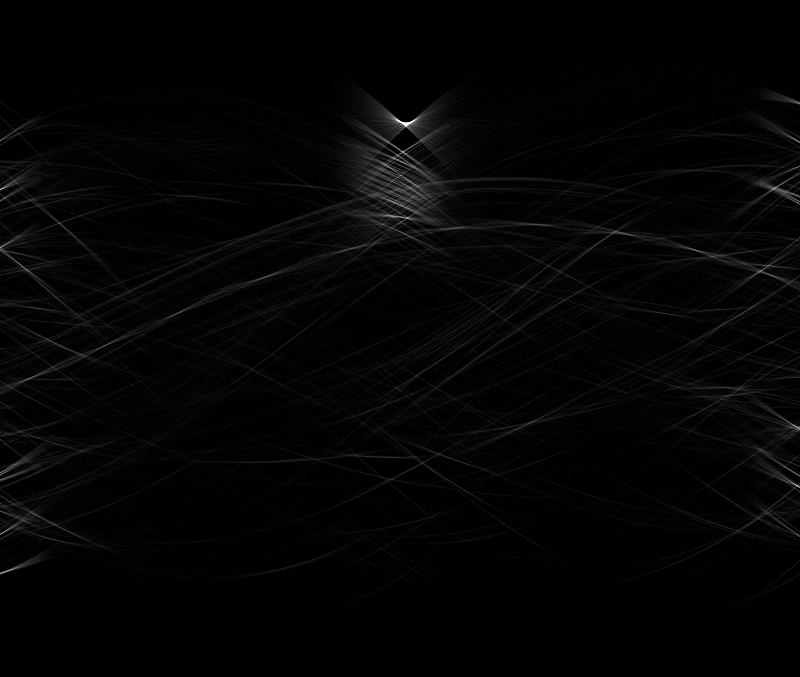
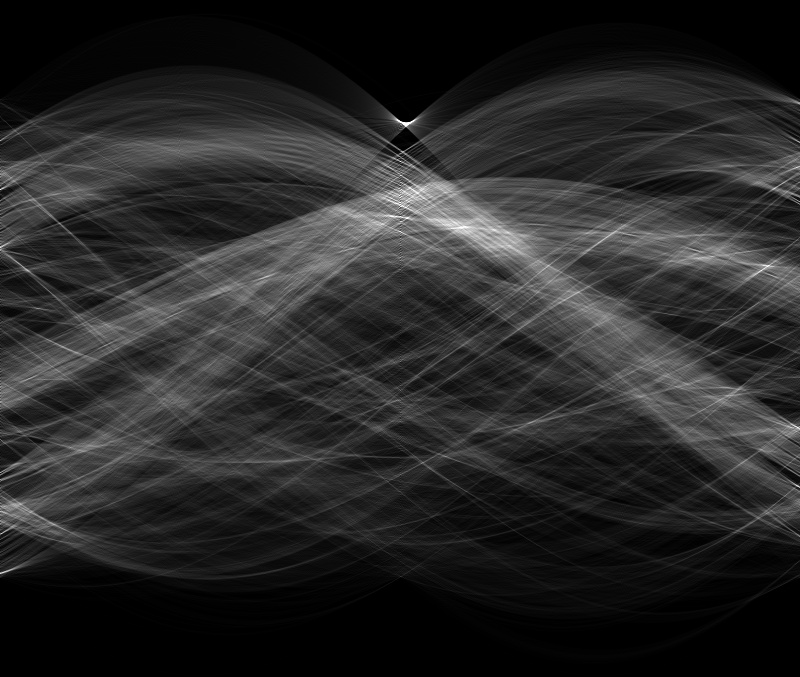
Fixed hough bug

diff --git a/houghcombine.cpp b/houghcombine.cpp
@@ -89,9 +89,7 @@ int main( int argc, char** argv ){
   magn(x_image, y_image, mag_image);
   angl2(x_image, y_image, ang2_image);
   thresh(mag_image, thresh_image, 4);
-
   hough(thresh_image, ang2_image, hough_image, angprop);
-  //points(hough_image, points_image);
 
   /*
   houghtest(hough_image, 0, 0); // cos + sin
@@ -107,19 +105,19 @@ int main( int argc, char** argv ){
   */
 
   //show all our images before returning
-  namedWindow( "Original", CV_WINDOW_AUTOSIZE );
-	imshow( "Original", image);
+  //namedWindow( "Original", CV_WINDOW_AUTOSIZE );
+	//imshow( "Original", image);
   //namedWindow( "X-gradient", CV_WINDOW_AUTOSIZE );
 	//imshow( "X-gradient", x_image);
 	//namedWindow( "Y-gradient", CV_WINDOW_AUTOSIZE );
 	//imshow( "Y-gradient", y_image);
-  namedWindow( "Magnitude", CV_WINDOW_AUTOSIZE );
-	imshow( "Magnitude", mag_image);
-  namedWindow("Angle", CV_WINDOW_AUTOSIZE);
-  imshow( "Angle", ang2_image);
-  namedWindow("Thresholded Magnitude", CV_WINDOW_AUTOSIZE);
-	imshow( "Thresholded Magnitude", thresh_image);
-  namedWindow("Hough Space", CV_WINDOW_AUTOSIZE);
+  //namedWindow( "Magnitude", CV_WINDOW_AUTOSIZE );
+	//imshow( "Magnitude", mag_image);
+  //namedWindow("Angle", CV_WINDOW_AUTOSIZE);
+  //imshow( "Angle", ang2_image);
+  //namedWindow("Thresholded Magnitude", CV_WINDOW_AUTOSIZE);
+	//imshow( "Thresholded Magnitude", thresh_image);
+  //namedWindow("Hough Space", CV_WINDOW_AUTOSIZE);
 	imshow( "Hough Space", hough_image);
   //namedWindow("Detected Line Intersections", CV_WINDOW_AUTOSIZE);
 	//imshow( "Detected Line Intersections", points_image);

diff --git a/subtask3/makehoughs.cpp b/subtask3/makehoughs.cpp
@@ -29,6 +29,17 @@ void thresh(cv::Mat &mag_image, cv::Mat &thresh_image, int threshold){
 }
 
 void hough(cv::Mat &thresh_image, cv::Mat &ang2_image, double angprop, cv::Mat &hough_image){
+
+  //Mat largeHough;
+  //largeHough.create(hough_image.size(), CV_16UC1);
+
+  for ( int y = 0; y < hough_image.rows; y++ ){
+		for( int x = 0; x < hough_image.cols; x++ ){
+      hough_image.at<uchar>(y, x) = (uchar) 0;
+      //largeHough.at<uchar>(y, x) = (unsigned int) 0;
+    }
+  }
+
   for ( int y = 0; y < thresh_image.rows; y++ ){
 		for( int x = 0; x < thresh_image.cols; x++ ){
 
